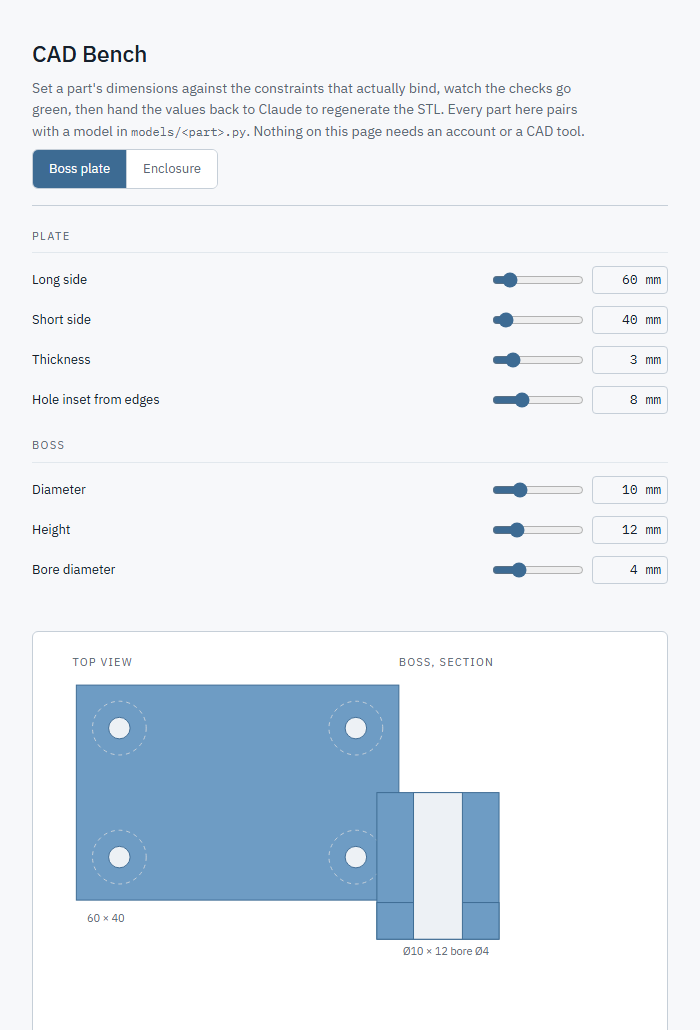
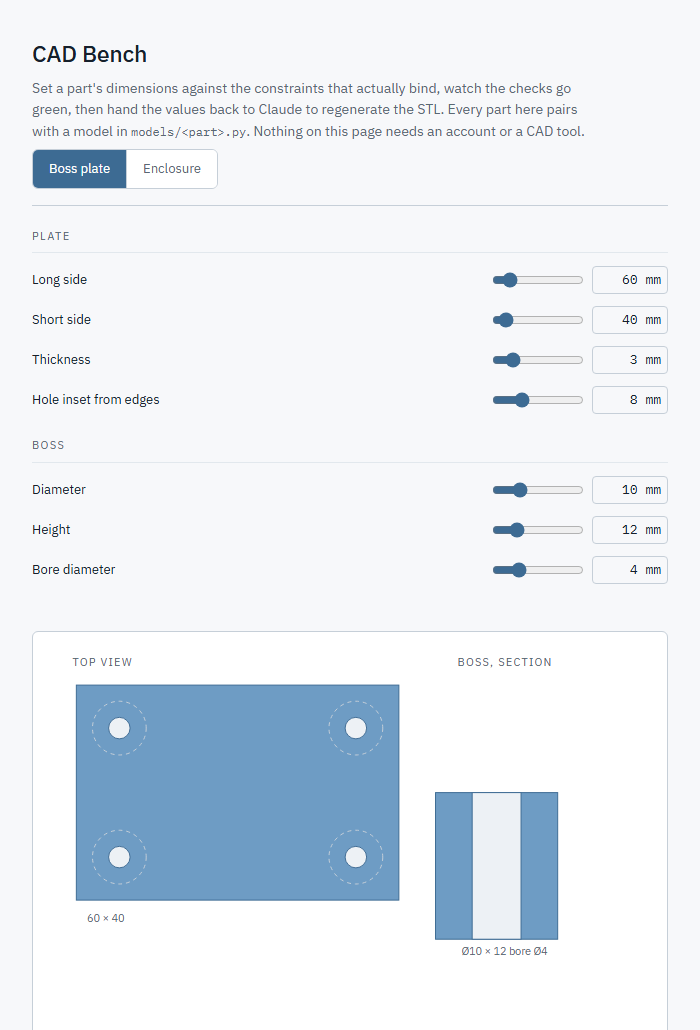
Fix real TOP VIEW / BOSS SECTION overlap in boss-plate, visible in the HOWTO screenshot
The two views' bounding boxes genuinely overlapped (computed: ~13% of the
smaller shape's area at defaults, up to 35px at slider extremes) -- under
the layout checker's 30% flag threshold since the overlap area was small
relative to the shapes' full size, but visibly overlapping in a real
screenshot, which is how this was actually found (not by check_bench.py).

Pushed the section view's anchor from px=400 to px=460. Verified with exact
bbox math across the worst-case slider combinations (not just defaults):
overlap is 0 at every combination tested, with a real >=25px gap even at
the worst case (biggest top view, widest+shortest boss). Regenerated the
HOWTO's affected screenshot from the fixed template.

Changed region(s): [[0.54, 0.7456, 0.81, 0.932], [0.63, 0.6214, 0.78, 0.6524], [0.57, 0.6214, 0.6, 0.6524]]

diff --git a/assets/bench-template.html b/assets/bench-template.html
@@ -221,7 +221,17 @@ const PARTS = {
     }
     o.push(tx(...T(-p.plate_x/2+2, -p.plate_y/2-4), p.plate_x+" × "+p.plate_y));
     // ---- SECTION THROUGH ONE BOSS ----
-    const px=400, s2=Math.min(150/p.boss_d, 150/p.boss_h), bz=300;
+    // px pushed from 400 to 460: TOP VIEW's right edge is fixed at x=360
+    // (30 + the 330 px width budget above, whichever axis s1 is limited
+    // by), but the boss rect's own half-width can reach a constant 75 px
+    // at its own worst case (s2=150/boss_d exactly cancels boss_d out) --
+    // so the old px=400 let the section's left edge reach x=325, INSIDE
+    // the top view's region, for a real (if small, ~13% of the smaller
+    // shape's area at defaults -- under the checker's 30% flag threshold,
+    // but visibly overlapping in a screenshot, which is how this was
+    // actually found). 460-75=385 clears 360 with a real 25 px gap at the
+    // worst case, not just at default slider values.
+    const px=460, s2=Math.min(150/p.boss_d, 150/p.boss_h), bz=300;
     const Q=(r,z)=>[px+r*s2, bz-z*s2];
     o.push(cap(px-40,20,"BOSS, SECTION"));
     o.push(rc(...Q(-p.boss_d/2,p.boss_h), p.boss_d*s2, p.boss_h*s2));
